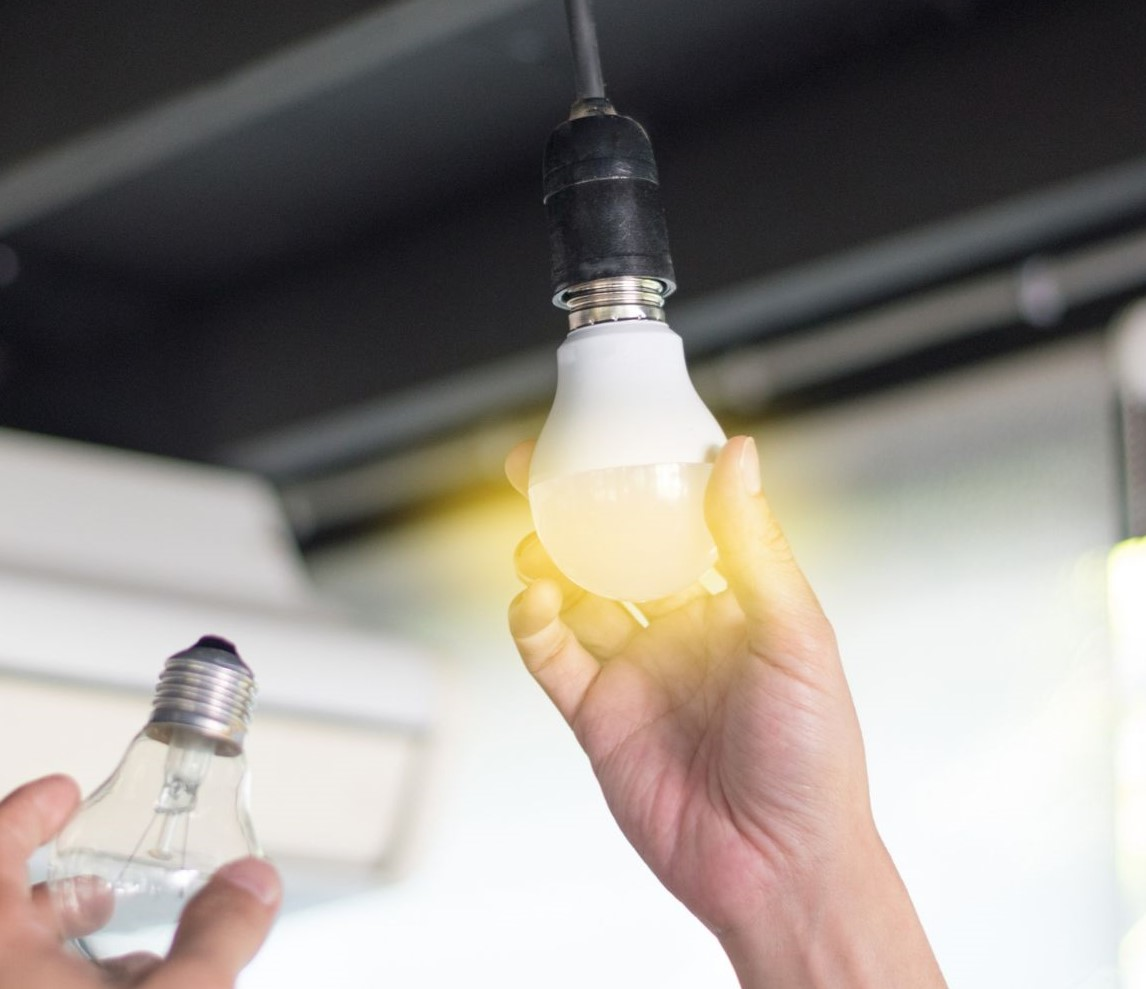
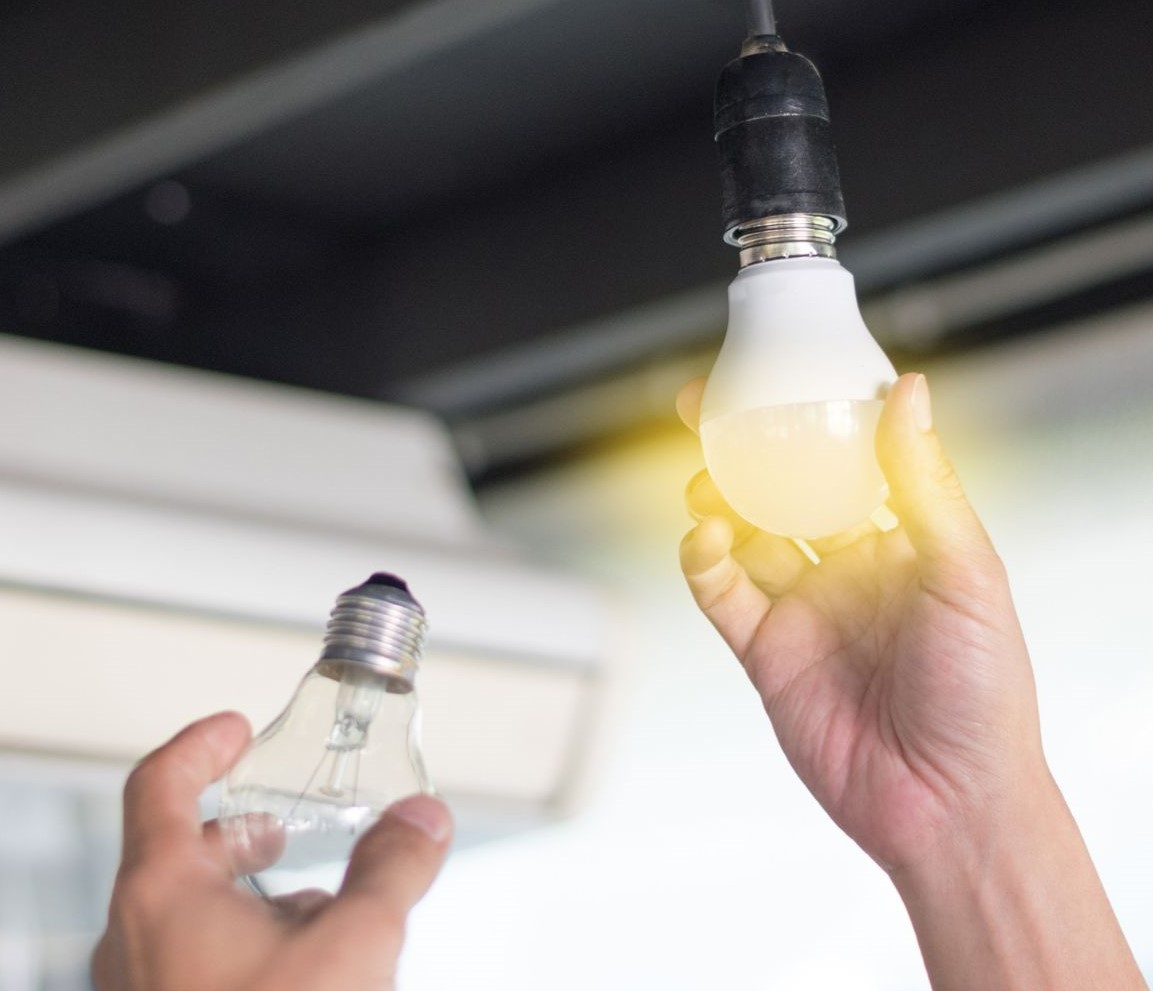
fix scroll for Services

diff --git a/frontend/app/components/sections/services/OurServices.tsx b/frontend/app/components/sections/services/OurServices.tsx
@@ -2,94 +2,103 @@ import ServiceCardOurServices from "../../cards/ServiceCardOurServices";
 
 export default function OurServices() {
   return (
-    <section className="relative">
-      {/* 🟩 Gradient Background */}
-      <div className="absolute w-[1923px] h-[364px] bg-gradient-to-r from-[#A1FFCE] to-[#FAFFD1]" />
+    <section className="relative overflow-x-hidden">
+      {/* 🟩 Gradient */}
+      <div className="absolute inset-0 h-[364px] bg-gradient-to-r from-[#A1FFCE] to-[#FAFFD1]" />
 
-      {/* 🟦 CENTER CONTENT (X + Y CENTER) */}
+      {/* 🟦 Title */}
       <div className="relative w-full h-[364px] flex items-center justify-center">
         <h2 className="text-[#126656] font-semibold text-[64px] leading-[97px] text-center">
           บริการทั้งหมดของเรา
         </h2>
       </div>
 
-      <div className="h-[150px]" />
+      {/* 🔥 Container */}
+      <div className="w-full max-w-[1800px] mx-auto px-[20px]">
+        <div className="h-[120px]" />
 
-      {/* 🟦 CARD */}
-      <div className="w-full flex justify-start pl-[0px]">
-        <ServiceCardOurServices
-          href="/services/cfo"
-          icon="building"
-          title="คาร์บอนฟุตพริ้นท์องค์กร (CFO)"
-          description="หลายองค์กรอยากรู้ว่าตัวเองปล่อย CO₂ ออกมาเท่าไร แต่ไม่รู้จะเริ่มจากตรงไหน เราช่วยจัดทำ Carbon Footprint ขององค์กรท่านตั้งแต่ต้นจนจบ ทั้งการเก็บข้อมูล วิเคราะห์ และจัดทำรายงานตามมาตรฐานที่ อบก. รับรอง"
-          suitableFor={`องค์กรที่ต้องการทราบปริมาณการปล่อยก๊าซเรือนกระจกของตัวเอง และต้องการนำข้อมูลนี้ไปใช้ในการวางแผน รายงาน 
-            หรือเพื่อให้สอดคล้องกับข้อกำหนดของคู่ค้าและนักลงทุน`}
-          outcome={`รายงาน CFO ฉบับสมบูรณ์
+        {/* CFO */}
+        <div className="flex justify-start">
+          <ServiceCardOurServices
+            href="/services/cfo"
+            icon="building"
+            title="คาร์บอนฟุตพริ้นท์องค์กร (CFO)"
+            description="หลายองค์กรอยากรู้ว่าตัวเองปล่อย CO₂ ออกมาเท่าไร แต่ไม่รู้จะเริ่มจากตรงไหน เราช่วยจัดทำ Carbon Footprint ขององค์กรท่านตั้งแต่ต้นจนจบ ทั้งการเก็บข้อมูล วิเคราะห์ และจัดทำรายงานตามมาตรฐานที่ อบก. รับรอง"
+            suitableFor={`องค์กรที่ต้องการทราบปริมาณการปล่อยก๊าซเรือนกระจกของตัวเอง และต้องการนำข้อมูลนี้ไปใช้ในการวางแผน รายงาน 
+หรือเพื่อให้สอดคล้องกับข้อกำหนดของคู่ค้าและนักลงทุน`}
+            outcome={`รายงาน CFO ฉบับสมบูรณ์
 พร้อมคำแนะนำในการลดการปล่อยก๊าซเรือนกระจกที่ทำได้จริงในองค์กรของท่าน`}
-        />
-      </div>
+          />
+        </div>
 
-      <div className="h-[150px]" />
+        <div className="h-[120px]" />
 
-      <div className="w-full flex justify-start pl-[0px]">
-        <ServiceCardOurServices
-          href="/services/cfp"
-          icon="milk"
-          title="คาร์บอนฟุตพริ้นท์ผลิตภัณฑ์ (CFP)"
-          description="หากองค์กรของท่านมีผลิตภัณฑ์ที่ต้องการแสดงฉลากคาร์บอน หรือต้องการยืนยันกับลูกค้าและคู่ค้าว่าผลิตภัณฑ์ของท่านใส่ใจสิ่งแวดล้อม เราช่วยจัดทำคาร์บอนฟุตพริ้นท์ระดับผลิตภัณฑ์ตามมาตรฐานสากล"
-          suitableFor={`ผู้ผลิตสินค้าที่ต้องการแสดงค่าคาร์บอนบนผลิตภัณฑ์ หรืออุตสาหกรรมที่มีข้อกำหนด ด้านสิ่งแวดล้อม จากคู่ค้าต่างประเทศ เช่น สิ่งทอ เครื่องประดับ อาหาร และอิเล็กทรอนิกส์`}
-          outcome={`รายงาน CFP ระดับผลิตภัณฑ์ที่สามารถนำไปใช้สื่อสารกับลูกค้า หรือยื่นขอฉลาก 
-            คาร์บอนกับหน่วยงานที่เกี่ยวข้องได้ทันที`}
-        />
-      </div>
+        {/* CFP */}
+        <div className="flex justify-start">
+          <ServiceCardOurServices
+            href="/services/cfp"
+            icon="milk"
+            title="คาร์บอนฟุตพริ้นท์ผลิตภัณฑ์ (CFP)"
+            description="หากองค์กรของท่านมีผลิตภัณฑ์ที่ต้องการแสดงฉลากคาร์บอน หรือต้องการยืนยันกับลูกค้าและคู่ค้าว่าผลิตภัณฑ์ของท่านใส่ใจสิ่งแวดล้อม เราช่วยจัดทำคาร์บอนฟุตพริ้นท์ระดับผลิตภัณฑ์ตามมาตรฐานสากล"
+            suitableFor={`ผู้ผลิตสินค้าที่ต้องการแสดงค่าคาร์บอนบนผลิตภัณฑ์ หรืออุตสาหกรรมที่มีข้อกำหนดด้านสิ่งแวดล้อม จากคู่ค้าต่างประเทศ เช่น สิ่งทอ เครื่องประดับ อาหาร และอิเล็กทรอนิกส์`}
+            outcome={`รายงาน CFP ระดับผลิตภัณฑ์ที่สามารถนำไปใช้สื่อสารกับลูกค้า 
+              หรือยื่นขอฉลากคาร์บอนกับหน่วยงานที่เกี่ยวข้องได้ทันที`}
+          />
+        </div>
 
-      <div className="h-[150px]" />
+        <div className="h-[120px]" />
 
-      <div className="w-full flex justify-end">
-        <ServiceCardOurServices
-          href="/services/tver-forestry"
-          icon="tree"
-          title="Carbon Credit ประเภท T-VER ป่าไม้"
-          description="หากองค์กรหรือบุคคลของท่านมีพื้นที่สีเขียว ไม่ว่าจะเป็นป่าชุมชน ป่าปลูกใหม่ หรือพื้นที่เกษตรกรรม สิ่งเหล่านี้สามารถแปลงเป็น Carbon Credit ได้ เราช่วยดูแลตั้งแต่การตรวจสอบความเป็นไปได้ จัดเตรียมเอกสาร ไปจนถึงการขึ้นทะเบียนกับ อบก."
-          suitableFor={`เจ้าของที่ดินหรือองค์กรที่มีพื้นที่ป่าหรือต้องการฟื้นฟูพื้นที่สีเขียว
-            และต้องการสร้างรายได้จากคาร์บอนเครดิตในระยะยาว`}
-          outcome={`ไฟล์เอกสารครบถ้วนพร้อมยื่น อบก. 
-            พร้อมคำแนะนำขั้นตอนหลังขึ้นทะเบียนเพื่อให้โครงการดำเนินต่อเนื่องได้`}
-        />
-      </div>
+        {/* T-VER Forestry */}
+        <div className="flex justify-end">
+          <ServiceCardOurServices
+            href="/services/tver-forestry"
+            icon="tree"
+            title="Carbon Credit ประเภท T-VER ป่าไม้"
+            description="หากองค์กรหรือบุคคลของท่านมีพื้นที่สีเขียว 
+            ไม่ว่าจะเป็นป่าชุมชน 
+            ป่าปลูกใหม่ หรือพื้นที่เกษตรกรรม สิ่งเหล่านี้สามารถแปลงเป็น Carbon Credit ได้ เราช่วยดูแลตั้งแต่การตรวจสอบความเป็นไปได้ จัดเตรียมเอกสาร ไปจนถึงการขึ้นทะเบียนกับ อบก."
+            suitableFor={`เจ้าของที่ดินหรือองค์กรที่มีพื้นที่ป่าหรือต้องการฟื้นฟูพื้นที่สีเขียว 
+              และต้องการสร้างรายได้จากคาร์บอนเครดิตในระยะยาว`}
+            outcome={`ไฟล์เอกสารครบถ้วนพร้อมยื่น อบก.
+พร้อมคำแนะนำขั้นตอนหลังขึ้นทะเบียนเพื่อให้โครงการดำเนินต่อเนื่องได้`}
+          />
+        </div>
 
-      <div className="h-[150px]" />
+        <div className="h-[120px]" />
 
-      <div className="w-full flex justify-end">
-        <ServiceCardOurServices
-          href="/services/tver-energy-transport"
-          icon="energy"
-          title="Carbon Credit ประเภท T-VER พลังงานและขนส่ง"
-          description="โครงการพลังงานสะอาดและการขนส่งที่มีประสิทธิภาพ เช่น Solar Cell, การเปลี่ยนรถ EV, หรือระบบประหยัดพลังงานในอาคาร ล้วนมีสิทธิ์นำมาคำนวณเป็น Carbon Credit ได้ เราช่วยวิเคราะห์ว่าโครงการของท่านเข้าเงื่อนไขหรือไม่ และดำเนินการขึ้นทะเบียนให้ครบถ้วน"
-          suitableFor={`ธุรกิจที่มีโครงการพลังงานทดแทนหรือลดการใช้พลังงาน 
-            และต้องการนำมูลค่าส่วนนั้นมาใช้ประโยชน์เพิ่มเติมในรูปแบบคาร์บอนเครดิต`}
-          outcome={`รายงานการตรวจสอบความเป็นไปได้ เอกสารประกอบการขึ้นทะเบียน T-VER 
-            และการสนับสนุนตลอดกระบวนการ`}
-        />
-      </div>
+        {/* T-VER Energy */}
+        <div className="flex justify-end">
+          <ServiceCardOurServices
+            href="/services/tver-energy-transport"
+            icon="energy"
+            title="Carbon Credit ประเภท T-VER พลังงานและขนส่ง"
+            description="โครงการพลังงานสะอาดและการขนส่งที่มีประสิทธิภาพ เช่น Solar Cell, การเปลี่ยนรถ EV, หรือระบบประหยัดพลังงานในอาคาร ล้วนมีสิทธิ์นำมาคำนวณเป็น Carbon Credit ได้ เราช่วยวิเคราะห์ว่าโครงการของท่านเข้าเงื่อนไขหรือไม่ และดำเนินการขึ้นทะเบียนให้ครบถ้วน"
+            suitableFor={`ธุรกิจที่มีโครงการพลังงานทดแทนหรือลดการใช้พลังงาน และต้องการนำมูลค่าส่วนนั้นมาใช้ประโยชน์เพิ่มเติมในรูปแบบคาร์บอนเครดิต`}
+            outcome={`รายงานการตรวจสอบความเป็นไปได้ เอกสารประกอบการขึ้นทะเบียน T-VER 
+              และการสนับสนุนตลอดกระบวนการ`}
+          />
+        </div>
 
-      <div className="h-[150px]" />
+        <div className="h-[120px]" />
 
-      <div className="w-full flex justify-start pl-[0px]">
-        <ServiceCardOurServices
-          href="/services/training"
-          icon="presentation"
-          title="อบรมและสัมมนาภายในองค์กร"
-          description="การลดโลกร้อนเริ่มต้นที่ความเข้าใจ เราออกแบบหลักสูตรอบรมให้ตรงกับบริบทขององค์กรท่าน ไม่ว่าจะเป็นการปูพื้นฐานให้ทีมงาน การสร้างความตระหนักรู้ หรือการฝึกทักษะเฉพาะเรื่อง CFO/CFP ทุกหลักสูตรถ่ายทอดในภาษาที่เข้าใจง่าย ไม่ต้องมีพื้นฐานมาก่อน"
-          suitableFor="องค์กรที่ต้องการสร้าง Green Awareness ให้กับพนักงาน 
-ฝ่าย CSR ที่ต้องการยกระดับความรู้ หรือทีมงานที่จะรับผิดชอบด้านคาร์บอนขององค์กร"
-          outcome={`
-            1. อบรมในองค์กร (In-house) — จัดที่สถานที่ของท่าน หรือที่สำนักงานเราย่านสีลม
+        {/* Training */}
+        <div className="flex justify-start">
+          <ServiceCardOurServices
+            href="/services/training"
+            icon="presentation"
+            title="อบรมและสัมมนาภายในองค์กร"
+            description="การลดโลกร้อนเริ่มต้นที่ความเข้าใจ เราออกแบบหลักสูตรอบรมให้ตรงกับบริบทขององค์กรท่าน ไม่ว่าจะเป็นการปูพื้นฐานให้ทีมงาน การสร้างความตระหนักรู้ หรือการฝึกทักษะเฉพาะเรื่อง CFO/CFP ทุกหลักสูตรถ่ายทอดในภาษาที่เข้าใจง่าย ไม่ต้องมีพื้นฐานมาก่อน"
+            suitableFor={`องค์กรที่ต้องการสร้าง Green Awareness ให้กับพนักงาน ฝ่าย CSR ที่ต้องการยกระดับความรู้ หรือทีมงานที่จะรับผิดชอบด้านคาร์บอนขององค์กร`}
+            outcome={`
+              1. อบรมในองค์กร (In-house) — จัดที่สถานที่ของท่าน หรือที่สำนักงานเราย่านสีลม
 2. อบรมออนไลน์ — ทั้งแบบ Live และ On-demand
-3. หลักสูตรพิเศษสำหรับผู้บริหาร — เน้นภาพรวมกลยุทธ์และนโยบาย ไม่เน้นรายละเอียดเทคนิค`}
-          outcomeLabel="รูปแบบการอบรม "
-          outcomeIcon="book"
-        />
+3. หลักสูตรพิเศษสำหรับผู้บริหาร — เน้นภาพรวมกลยุทธ์และนโยบาย`}
+            outcomeLabel="รูปแบบการอบรม "
+            outcomeIcon="book"
+          />
+        </div>
+
+        <div className="h-[120px]" />
       </div>
     </section>
   );

diff --git a/frontend/app/components/cards/ServiceCardOurServices.tsx b/frontend/app/components/cards/ServiceCardOurServices.tsx
@@ -26,11 +26,9 @@ type Props = {
   title: string;
   description: string;
   suitableFor?: string;
-
   outcome?: string;
   outcomeLabel?: string;
   outcomeIcon?: keyof typeof iconMap;
-
   icon: keyof typeof iconMap;
   href: string;
 };
@@ -40,95 +38,69 @@ export default function ServiceCardOurServices({
   description,
   suitableFor,
   outcome,
-  outcomeLabel, 
-  outcomeIcon,    
+  outcomeLabel,
+  outcomeIcon,
   icon,
   href,
 }: Props) {
   const Icon = iconMap[icon];
 
   return (
-    <Link href={href} className="block">
-      <div
-        className="
-    relative w-full max-w-[1668px]
-    bg-[rgba(109,237,195,0.18)]
-    rounded-tl-[30px] rounded-br-[30px]
-    p-[60px]
-
-    cursor-pointer
-    transition-all duration-300 ease-out
-
-    hover:-translate-y-2
-    hover:shadow-[0_20px_40px_rgba(0,0,0,0.12)]
-  "
-      >
-        {/* 🔹 SHIFTED CONTENT */}
-        <div className="ml-[145px]">
-          {/* 🔹 HEADER */}
-          <div className="flex items-center gap-4 mb-6">
-            <div className="w-[82px] h-[82px] border-2 border-[#73F68D] rounded-full flex items-center justify-center shrink-0">
-              <Icon size={47} className="text-[#73F68D]" />
+    <Link href={href} className="block w-full max-w-[1500px]">
+      <div className="w-full box-border bg-[rgba(109,237,195,0.18)] rounded-tl-[30px] rounded-br-[30px] p-[60px] hover:-translate-y-2 transition">
+        <div className="px-[60px]">
+          {/* HEADER */}
+          <div className="flex items-center gap-5 mb-6">
+            <div className="w-[90px] h-[90px] border-2 border-[#73F68D] rounded-full flex items-center justify-center">
+              <Icon size={50} className="text-[#73F68D]" />
             </div>
 
-            <h3 className="text-[#036556] font-semibold text-[32px] leading-[48px]">
+            <h3 className="text-[#036556] text-[34px] font-semibold">
               {title}
             </h3>
           </div>
 
-          {/* 🔵 DESCRIPTION */}
-          <p className="text-[#036556] font-medium text-[24px] leading-[33px] mb-6">
+          {/* DESCRIPTION */}
+          <p className="text-[#036556] text-[24px] leading-[34px] mb-6">
             {description}
           </p>
 
-          {/* 🟠 SUITABLE FOR */}
+          {/* SUITABLE */}
           {suitableFor && (
-            <div className="flex items-start gap-3 mb-6">
-              <div className="mt-[10px] shrink-0">
-                <CircleCheckBig className="text-[#F04F23]" size={40} />
-              </div>
-
-              <p className="text-[#036556] font-normal text-[24px] leading-[33px] whitespace-pre-line">
+            <div className="flex gap-3 mb-6">
+              <CircleCheckBig className="text-[#F04F23] mt-[6px]" size={38} />
+              <p className="text-[#036556] text-[23px] whitespace-pre-line">
                 <span className="text-[#F04F23]">เหมาะสำหรับ </span>
                 {suitableFor}
               </p>
             </div>
           )}
 
-          {/* 🟢 OUTCOME */}
+          {/* OUTCOME */}
           {outcome && (
-  <div className="flex items-start gap-3 mb-6">
-    <div className="mt-[10px] shrink-0">
-      {(() => {
-        const OutcomeIcon = iconMap[outcomeIcon || "document"];
-        return <OutcomeIcon className="text-[#F04F23]" size={40} />;
-      })()}
-    </div>
+            <div className="flex gap-3">
+              {(() => {
+                const OutcomeIcon = iconMap[outcomeIcon || "document"];
+                return (
+                  <OutcomeIcon className="text-[#F04F23] mt-[6px]" size={38} />
+                );
+              })()}
 
-    <p className="text-[#036556] font-normal text-[24px] leading-[33px] whitespace-pre-line">
-      <span className="text-[#F04F23]">
-        {outcomeLabel || "สิ่งที่จะได้รับ "}
-      </span>
-      {outcome}
-    </p>
-  </div>
-)}
+              <p className="text-[#036556] text-[23px] whitespace-pre-line">
+                <span className="text-[#F04F23]">
+                  {outcomeLabel || "สิ่งที่จะได้รับ "}
+                </span>
+                {outcome}
+              </p>
+            </div>
+          )}
         </div>
 
-        {/* 🟢 CTA */}
-        <div className="flex justify-end">
-          <button className="w-[80px] h-[42px] bg-[#73F68D] rounded-tl-[30px] rounded-br-[30px] flex items-center justify-center hover:scale-105 transition">
-            <svg
-              width="22"
-              height="22"
-              viewBox="0 0 24 24"
-              fill="none"
-              className="stroke-[#036556] stroke-[2.5]"
-            >
-              <path d="M5 12H19" />
-              <path d="M13 6L19 12L13 18" />
-            </svg>
-          </button>
+        {/* CTA */}
+        <div className="flex justify-end mt-6">
+          <div className="w-[100px] h-[50px] bg-[#73F68D] rounded-tl-[30px] rounded-br-[30px] flex items-center justify-center">
+            →
+          </div>
         </div>
       </div>
     </Link>

diff --git a/frontend/app/components/sections/services/CarbonReductionExamples.tsx b/frontend/app/components/sections/services/CarbonReductionExamples.tsx
@@ -1,6 +1,6 @@
 export default function CarbonReductionExamples() {
   return (
-    <section className="relative overflow-hidden h-[800px]">
+    <section className="relative overflow-hidden overflow-x-hidden h-[800px]">
       {/* 🟩 BACKGROUND */}
       <div className="absolute w-[1107px] h-[800px] bg-[rgba(109,237,195,0.18)] left-0 top-0" />
 
@@ -43,17 +43,17 @@ export default function CarbonReductionExamples() {
           </div>
 
           {/* 🟡 IMAGE */}
-          <div className="relative w-[420px] h-[800px]">
+          <div className="relative w-[420px] h-[800px] overflow-hidden">
             {/* รูป 1 (ล่างสุด) */}
             <img
               src="/images/servicesExample-1.jpg"
               className="absolute w-[284px] h-[290px] left-[80px] top-[150px] rounded-[30px_0_30px_0] object-cover z-0"
             />
 
-            {/* รูป 2 (กลาง) */}
+            {/* รูป 2 (กลาง) 👉 แก้ตรงนี้ */}
             <img
               src="/images/servicesExample-2.jpg"
-              className="absolute w-[293px] h-[312px] left-[400px] top-[230px] rounded-[30px_0_30px_0] object-cover z-10"
+              className="absolute w-[293px] h-[312px] right-0 top-[230px] rounded-[30px_0_30px_0] object-cover z-10"
             />
 
             {/* รูป 3 (บนสุด) */}